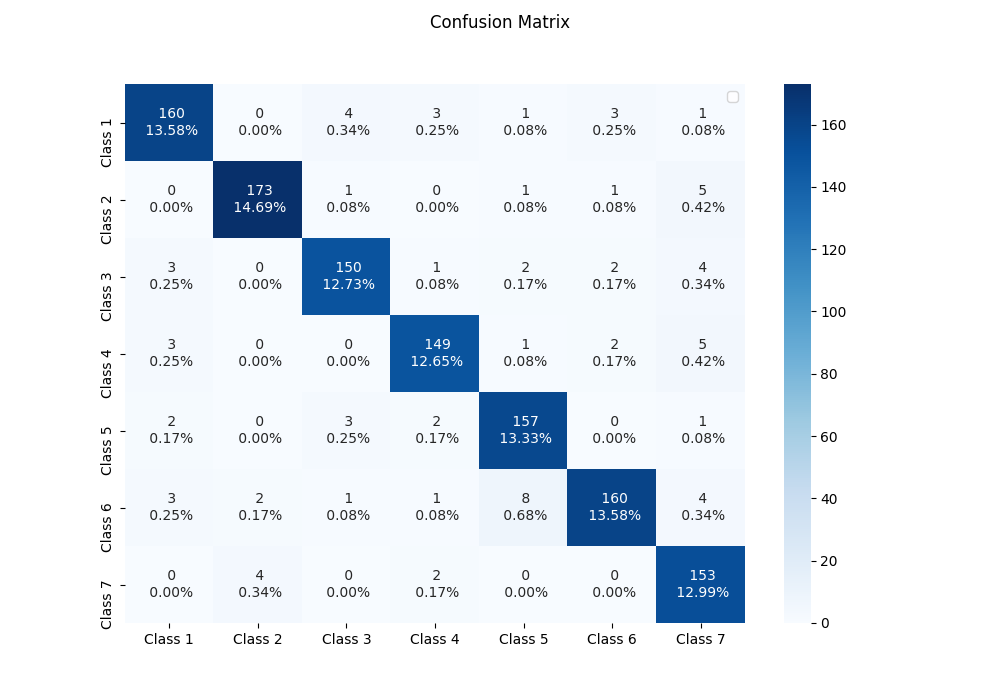
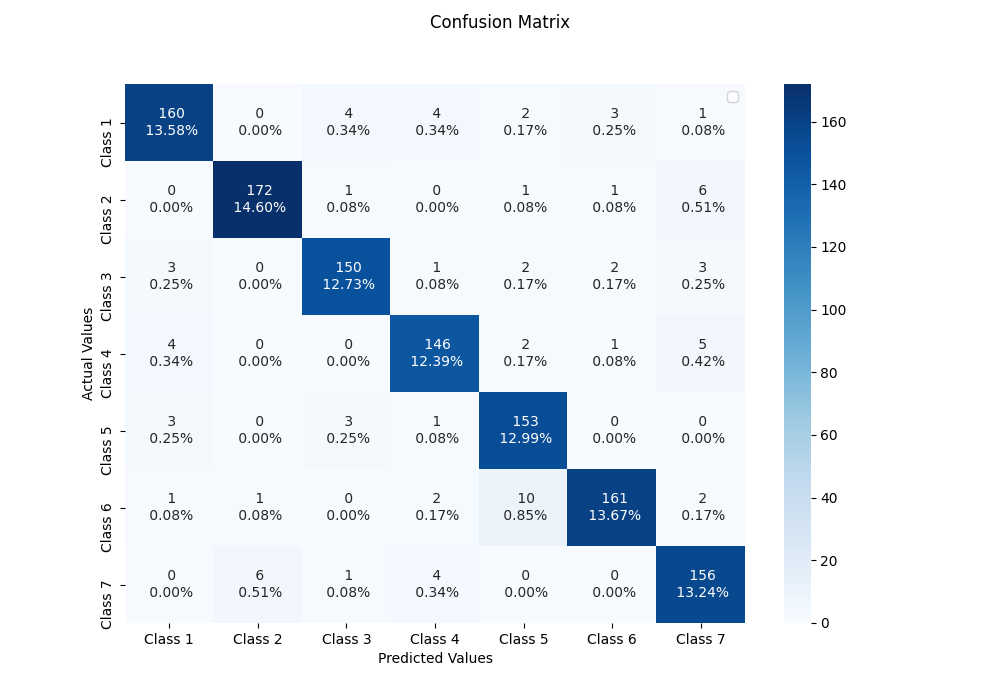
Small fixes to confusion matrix plot and comma at the end of prediction text file.

diff --git a/src/main.py b/src/main.py
@@ -39,11 +39,16 @@ def main():
 
     # Write predictions of unknown data to Text File
     f = open("../doc/Group_66_classes.txt", "w")
-    for x in unknown:
+    for x in unknown[:-1]:
         print(x)
         prediction = np.argmax(network.feedforward(x)) + 1
         f.write(f"{prediction},")
+
+    prediction = np.argmax(network.feedforward(unknown[-1])) + 1
+    f.write(f"{prediction}")
     f.close()
+
+
 
 if __name__ == "__main__":
     main()

diff --git a/src/network.py b/src/network.py
@@ -206,6 +206,6 @@ class Network:
 
         labels = np.asarray(labels).reshape(7, 7)
         plt.figure(figsize=(10, 7))
-        sn.heatmap(df_cm, annot=labels, cmap='Blues', fmt='')
+        sn.heatmap(df_cm, annot=labels, cmap='Blues', fmt='').set(xlabel='Predicted Values', ylabel='Actual Values')
 
         return confusion_matrix
